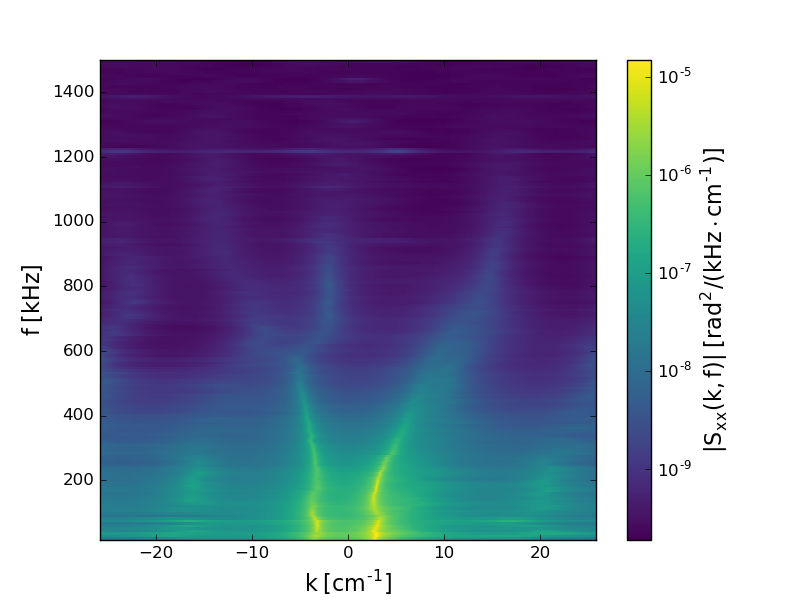
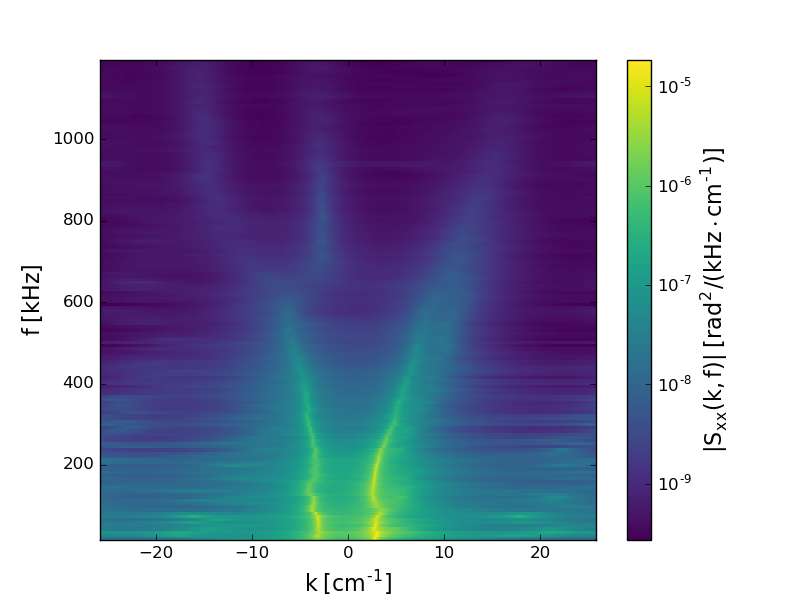
Updates to `README.md` to show estimation & compensation of trigger offset

diff --git a/mitpci/pci/signal.py b/mitpci/pci/signal.py
@@ -210,7 +210,7 @@ class Phase(Signal):
 
         # If needed, compensate for trigger offset
         if (self.tau is not None) and (Nboards > 1):
-            print '\n'
+            print ''
             for chind in np.where(self.digitizer_board == 'DT216_8')[0]:
                 self._printOffsetCompensationMessage(chind)
                 self.x[chind, :] = circular_resample(

diff --git a/README.md b/README.md
@@ -26,7 +26,9 @@ the heterodyne interferometer, including:
 
 There are also several specialized analysis routines for the PCI, including:
 
-* estimation of the complex-valued, spatial cross-correlation function and
+* estimation and compensation of the trigger offset between
+  the two boards of the digitizer,
+* estimation of the complex-valued, spatial cross-correlation function, and
 * estimation of the corresponding two-dimensional autospectral density
   with Burg autoregression and Fourier spatial methods.
 
@@ -367,6 +369,54 @@ from a recent PCI-interferometer audio cross-calibration
 is applied to the PCI signal.
 
 
+Estimation and compensation of trigger offset between digitizer boards:
+-----------------------------------------------------------------------
+Although both digitizer boards share the same *nominal* timebase,
+the boards often physically trigger at slightly different times;
+this time difference is termed the "trigger offset".
+The trigger offset is typically a few tenths of a microsecond, and
+it varies on a shot-to-shot basis.
+Because it can produce large systematic errors in spectral estimates,
+it is desirable to estimate and compensate for the trigger offset.
+
+The trigger offset can be readily estimated by analyzing
+stationary signals from four *equally spaced* detector elements
+that *straddle* the board boundary (e.g. the two lowest elements map
+to board 7 and the two highest elements map to board 8;
+currently, specifying `digitizer_channels = [7, 8, 9, 12]`
+meets these criterion).
+Usually, an L-mode portion of the discharge
+is optimal for estimating the trigger offset,
+as the fluctuations are large and there are no ELMs.
+For example,
+
+```python
+shot = 171521
+tlim_Lmode = [1.05, 1.10]  # [tlim_Lmode] = s, stationary L-mode window
+digitizer_channels = [7, 8, 9, 12]
+
+# Load data
+Ph_pci_Lmode = mitpci.pci.Phase(shot, digitizer_channels, tlim=tlim_Lmode)
+
+# Compute trigger offset
+trig = mitpci.boards.TriggerOffset(Ph_pci_Lmode)
+print '\ntrigger offset = %.2f us' % (trig.tau * 1e6)
+
+# Load PCI data from *all* channels for a larger time window, and
+# compensate for trigger offset
+tlim = [1.0, 1.5]  # [tlim] = s
+digitizer_channels = np.arange(16) + 1
+Ph_pci = mitpci.pci.Phase(shot, digitizer_channels, tlim=tlim, tau=trig.tau)
+
+```
+
+Note that a warning message is printed to the screen
+when the `tau` keyword argument is not specified,
+as was the case when loading the L-mode data above.
+Spectral estimates involving signals from both boards
+should only be attempted *after* compensating for the trigger offset.
+
+
 PCI complex-valued, spatial cross-correlation function:
 -------------------------------------------------------
 Typically, the digitized PCI signal corresponds to measurements
@@ -378,7 +428,8 @@ Fortunately, the correlation function
 can still be estimated from nonuniformly spaced samples.
 For example, the PCI complex-valued, spatial cross-correlation function
 can be easily estimated and visualized as follows
-(using the `Ph_pci` instance from above):
+(using the `Ph_pci` instance from above,
+after compensation of the trigger offset):
 
 ```python
 import matplotlib.pyplot as plt
@@ -393,12 +444,13 @@ Nreal_per_ens = 500  # number of realizations in the ensemble
 corr = mitpci.pci.ComplexCorrelationFunction(
     Ph_pci, tlim=tlim, Nreal_per_ens=Nreal_per_ens)
 
-corr.plotNormalizedCorrelationFunction()
+flim = [0, 1200]  # [flim] = kHz
+corr.plotNormalizedCorrelationFunction(flim=flim)
 plt.show()
 
 ```
 
-![pci_correlation_function](https://raw.githubusercontent.com/emd/mitpci/master/figs/pci_correlation_function.png)
+![pci_correlation_function](https://raw.githubusercontent.com/emd/mitpci/offset/figs/pci_correlation_function.png)
 
 Note that this is a plot of the *normalized* complex-valued, spatial
 cross-correlation function. That is, at each frequency `f`,
@@ -451,12 +503,13 @@ that are less than or equal to 2 detector-element spacings):
 asd2d = mitpci.pci.TwoDimensionalAutoSpectralDensity(
     corr, spatial_method='burg', burg_params={'p': 5, 'Nk': 1000})
 
-flim = [10, 1500]  # [flim] = kHz
+flim = [10, 1200]  # [flim] = kHz
 asd2d.plotSpectralDensity(flim=flim)
+plt.show()
 
 ```
 
-![pci_2d_spectrum](https://raw.githubusercontent.com/emd/mitpci/master/figs/pci_2d_spectrum.png)
+![pci_2d_spectrum](https://raw.githubusercontent.com/emd/mitpci/offset/figs/pci_2d_spectrum.png)
 
 Spatial resolution typically increases with higher `p`, but
 higher `p` can produce "pole splitting" and can introduce
